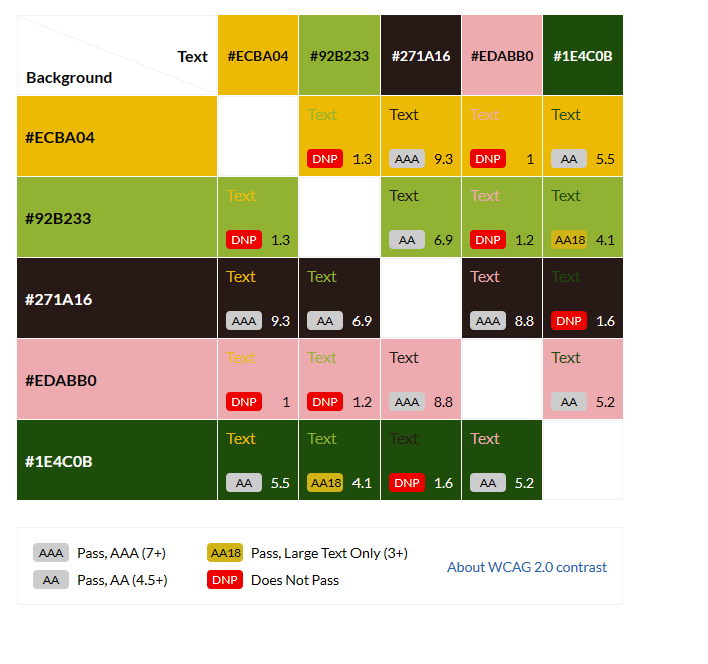
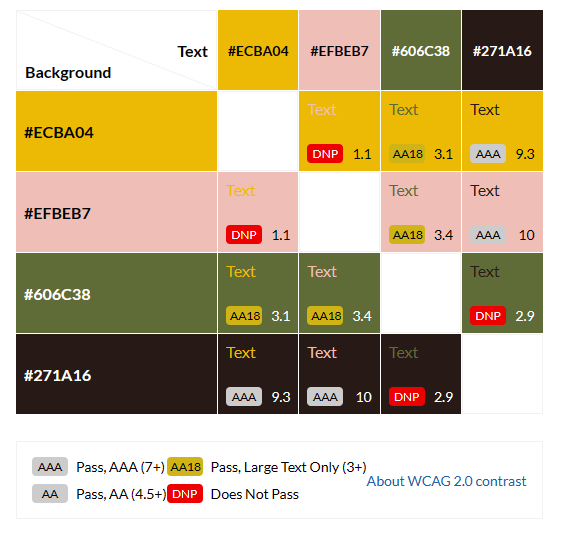
update: README.MD

diff --git a/README.md b/README.md
@@ -54,11 +54,11 @@ Users can subscribe to newsletter and contact campaign managers directly.
 
 ### Typography
 
-The font family chosen for Bee-Aware was Montserrat. This font has a high readability and makes the design look clean and simple.
+The font family chosen for Bee-Aware was 'Libre Franklin'. This font has a high readability and makes the design look clean and simple.
 
 ### Colour Scheme
 
-The color scheme was used based on pollinator and plant colours. Neutral off white was chosen for backgrounds. Main accent color is saffron yellow and together with liquerish brown represent the bee. The combination of greens and pale red used throughout the website in various shades for more nature inspired looks.
+The color scheme was used based on pollinator and plant colours. Neutral pale red was chosen for backgrounds. Main accent color is saffron yellow and together with liquerish brown represent the bee. The combination of green and yellow used throughout the website in various shades for more nature inspired looks.
 
 ![Nature colour scheme](docs/nature-colour-scheme.png)
 
@@ -67,3 +67,30 @@ I have also used contrast-grid.eightshapes.com to get inspiration for possible c
 ![Contrast Grid](docs/contrast-grid.png)
 
 ### Logo and Images
+
+### Structure
+
+My website will be responsive and different layouts depending on the size of the viewport have been included in the CSS media queries. the breakpoints I am iusing are from Bootstrap.
+![Breakpoints](docs/media-queries.png)
+
+\
+&nbsp;
+[Back to Top](#contents)
+\
+&nbsp;
+
+# Features
+
+Bee-Aware aims to simplify information availability for users as much as possible. Layout ais easy to use and adhere to best practices in formatting and styling. The site's flow and appearance will be recognizable to users. Browsing of the entire website is encouraged by the relatable and easy to understand material.
+
+## Existing Features
+
+# Home
+
+Bee-Aware home page serves as its primary landing page. The landing page's objectives are to explain to the visitor the aim of the website in plain terms. Also inviting them to explore the site further using the navigation bar.
+
+### Navigation Bar
+
+This webpage has navigation bar which is responsive to different screen sizes. It includes the logo of the be whoch leads back to the home page.
+
+### Landing Page
